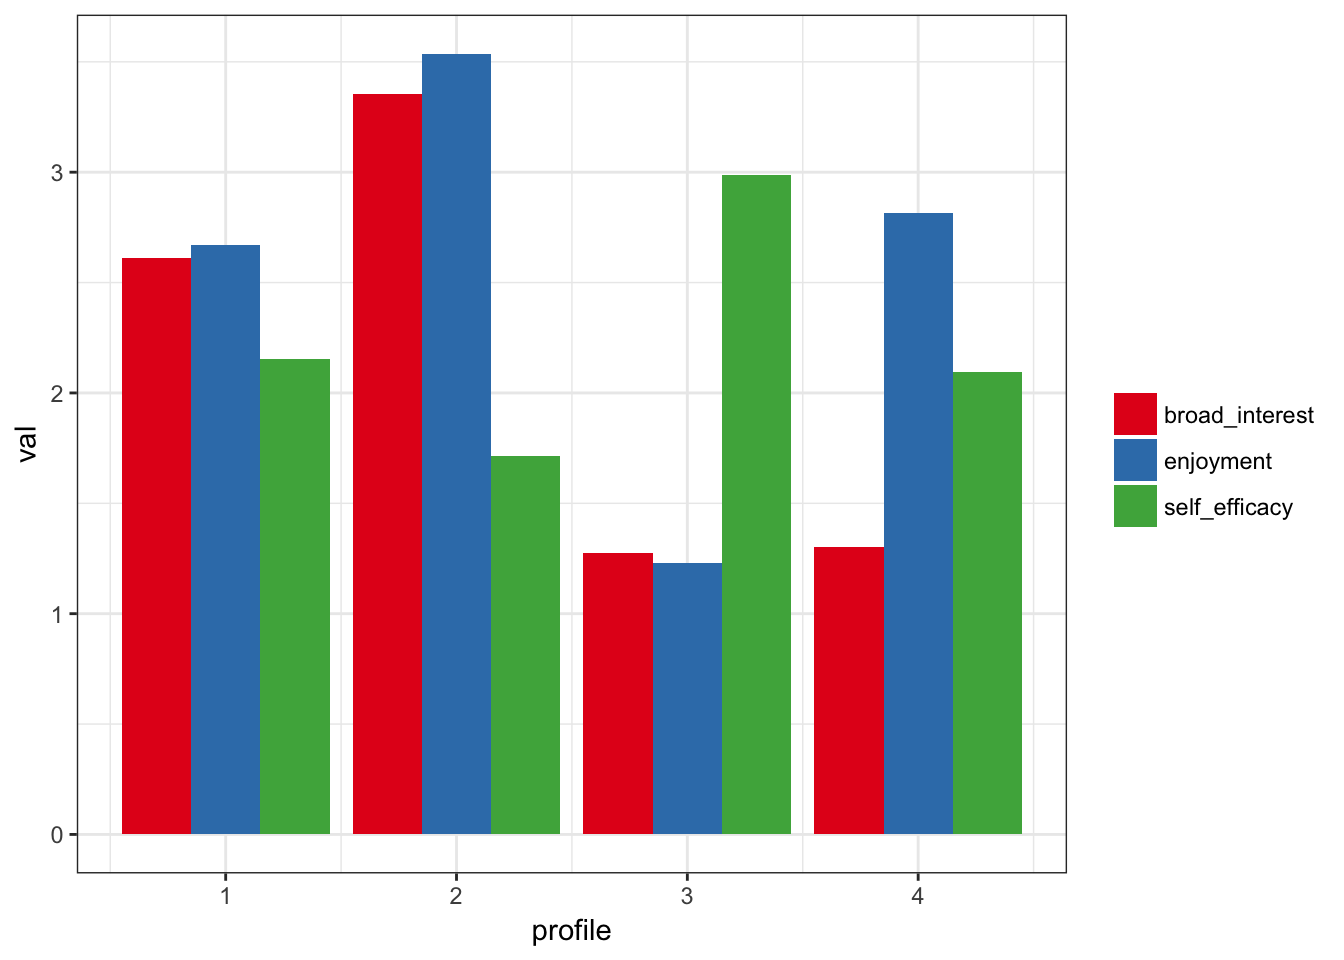
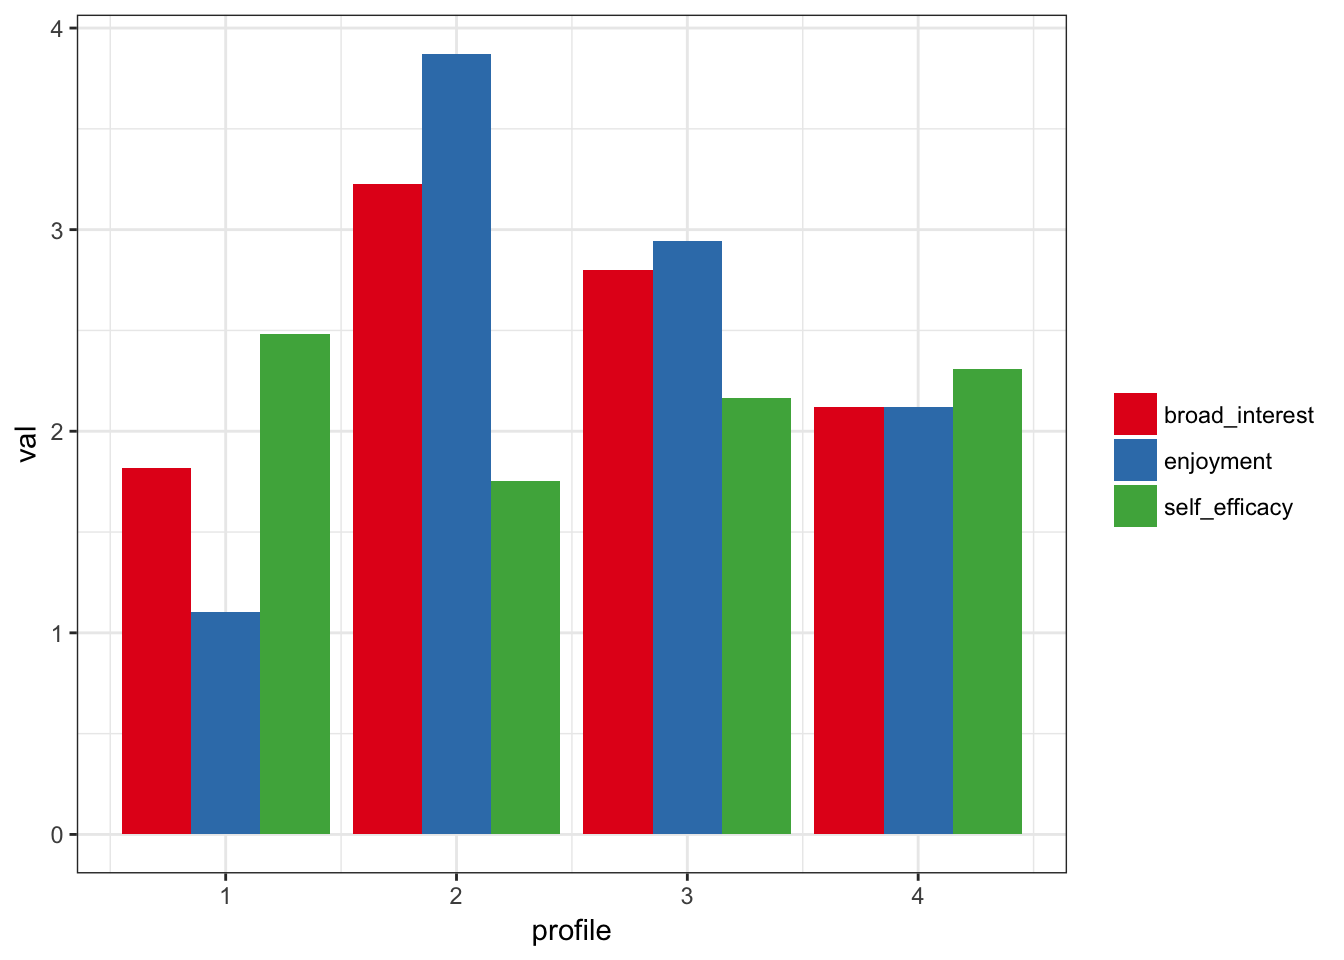
update in response to R CMD check

diff --git a/docs/articles/Introduction_to_tidyLPA.html b/docs/articles/Introduction_to_tidyLPA.html
@@ -82,24 +82,24 @@ d &lt;-<span class="st"> </span>pisaUSA15
 d &lt;-<span class="st"> </span><span class="kw">sample_n</span>(pisaUSA15, <span class="dv">500</span>)
 <span class="kw"><a href="../reference/create_profiles_lpa.html">create_profiles_lpa</a></span>(d, broad_interest, enjoyment, self_efficacy, <span class="dt">n_profiles =</span> <span class="dv">4</span>, <span class="dt">model =</span> <span class="dv">2</span>)
 <span class="co">#&gt; Model with 4 profiles using the 'varying means, equal variances and covariances' model.</span>
-<span class="co">#&gt; AIC is 2842.748</span>
-<span class="co">#&gt; BIC is 2929.911</span>
-<span class="co">#&gt; ICL is 3170.918</span>
-<span class="co">#&gt; Entropy is 0.78671</span>
-<span class="co">#&gt; # A tibble: 469 x 5</span>
+<span class="co">#&gt; AIC is 2675.152</span>
+<span class="co">#&gt; BIC is 2762.538</span>
+<span class="co">#&gt; ICL is 2792.197</span>
+<span class="co">#&gt; Entropy is 0.97233</span>
+<span class="co">#&gt; # A tibble: 474 x 5</span>
 <span class="co">#&gt;    broad_interest enjoyment self_efficacy profile posterior_prob</span>
 <span class="co">#&gt;             &lt;dbl&gt;     &lt;dbl&gt;         &lt;dbl&gt;   &lt;dbl&gt;          &lt;dbl&gt;</span>
-<span class="co">#&gt;  1           3.00       3.2         2.000       1        0.52042</span>
-<span class="co">#&gt;  2           4.00       4.0         1.750       2        0.98139</span>
-<span class="co">#&gt;  3           2.00       2.2         2.625       1        0.81540</span>
-<span class="co">#&gt;  4           2.00       2.0         1.000       1        0.69438</span>
-<span class="co">#&gt;  5           1.00       1.0         1.000       3        0.88757</span>
-<span class="co">#&gt;  6           1.75       1.0         3.000       3        0.98965</span>
-<span class="co">#&gt;  7           1.00       2.2         2.000       4        0.91386</span>
-<span class="co">#&gt;  8           1.80       1.8         2.125       1        0.50814</span>
-<span class="co">#&gt;  9           3.20       3.0         2.000       1        0.53080</span>
-<span class="co">#&gt; 10           3.00       3.0         2.000       1        0.63059</span>
-<span class="co">#&gt; # ... with 459 more rows</span></code></pre></div>
+<span class="co">#&gt;  1            2.2       2.0         2.000       4        0.99994</span>
+<span class="co">#&gt;  2            1.2       2.2         3.000       4        0.99771</span>
+<span class="co">#&gt;  3            2.0       2.8         3.375       3        0.99921</span>
+<span class="co">#&gt;  4            3.6       3.8         1.500       2        0.99971</span>
+<span class="co">#&gt;  5            3.0       2.8         3.125       3        0.99957</span>
+<span class="co">#&gt;  6            1.0       2.2         2.000       4        0.99925</span>
+<span class="co">#&gt;  7            1.0       1.8         2.000       4        0.99758</span>
+<span class="co">#&gt;  8            2.2       1.8         3.000       4        0.99865</span>
+<span class="co">#&gt;  9            3.0       3.0         2.625       3        0.99994</span>
+<span class="co">#&gt; 10            3.2       3.6         1.625       2        0.97267</span>
+<span class="co">#&gt; # ... with 464 more rows</span></code></pre></div>
 <p>You can see the output is simply the same <code>tibble</code> that is input as the first function to <code>create_profiles_LPA</code>, but modified so that the classification and posterior probability of the classification are added (and incomplete cases with respect to the variables used to estimate the profiles removed).</p>
 <p>A bit more information the models. While <code>MCLUST</code> has a wide variety of models available (see <code>mclust::mclustModelNames()</code> for a full list), the three that are most commonly specified when carrying out LPA.</p>
 <ol style="list-style-type: decimal">
@@ -111,18 +111,18 @@ d &lt;-<span class="st"> </span><span class="kw">sample_n</span>(pisaUSA15, <spa
 <div class="sourceCode"><pre class="sourceCode r"><code class="sourceCode r"><span class="kw"><a href="../reference/create_profiles_lpa.html">create_profiles_lpa</a></span>(d, broad_interest, enjoyment, self_efficacy, <span class="dt">n_profiles =</span> <span class="dv">4</span>, <span class="dt">model =</span> <span class="dv">2</span>) <span class="op">%&gt;%</span><span class="st"> </span>
 <span class="st">    </span><span class="kw"><a href="../reference/plot_profiles_lpa.html">plot_profiles_lpa</a></span>()
 <span class="co">#&gt; Model with 4 profiles using the 'varying means, equal variances and covariances' model.</span>
-<span class="co">#&gt; AIC is 2842.748</span>
-<span class="co">#&gt; BIC is 2929.911</span>
-<span class="co">#&gt; ICL is 3170.918</span>
-<span class="co">#&gt; Entropy is 0.78671</span></code></pre></div>
+<span class="co">#&gt; AIC is 2675.152</span>
+<span class="co">#&gt; BIC is 2762.538</span>
+<span class="co">#&gt; ICL is 2792.197</span>
+<span class="co">#&gt; Entropy is 0.97233</span></code></pre></div>
 <p><img src="Introduction_to_tidyLPA_files/figure-html/unnamed-chunk-5-1.png" width="672"></p>
 <p>Below is identical to the two lines of code above, except that instead of using the pipe, we save the output the object <code>m3</code>, and then call the <code><a href="../reference/plot_profiles_lpa.html">plot_profiles_lpa()</a></code> function on the output that it points to.</p>
 <div class="sourceCode"><pre class="sourceCode r"><code class="sourceCode r">m3 &lt;-<span class="st"> </span><span class="kw"><a href="../reference/create_profiles_lpa.html">create_profiles_lpa</a></span>(d, broad_interest, enjoyment, self_efficacy, <span class="dt">n_profiles =</span> <span class="dv">4</span>, <span class="dt">model =</span> <span class="dv">2</span>)
 <span class="co">#&gt; Model with 4 profiles using the 'varying means, equal variances and covariances' model.</span>
-<span class="co">#&gt; AIC is 2842.748</span>
-<span class="co">#&gt; BIC is 2929.911</span>
-<span class="co">#&gt; ICL is 3170.918</span>
-<span class="co">#&gt; Entropy is 0.78671</span>
+<span class="co">#&gt; AIC is 2675.152</span>
+<span class="co">#&gt; BIC is 2762.538</span>
+<span class="co">#&gt; ICL is 2792.197</span>
+<span class="co">#&gt; Entropy is 0.97233</span>
 <span class="kw"><a href="../reference/plot_profiles_lpa.html">plot_profiles_lpa</a></span>(m3, <span class="dt">to_center =</span> <span class="ot">TRUE</span>)</code></pre></div>
 <p><img src="Introduction_to_tidyLPA_files/figure-html/unnamed-chunk-6-1.png" width="672"></p>
 </div>
@@ -132,36 +132,36 @@ d &lt;-<span class="st"> </span><span class="kw">sample_n</span>(pisaUSA15, <spa
 <p>In addition to being used as part of a “tidy” approach, there is also an option to use it as part of a more conventional, object-oriented approach. In this example, instead of outputting a <code>tibble</code>, we will output an object of class <code>Mclust</code>.</p>
 <div class="sourceCode"><pre class="sourceCode r"><code class="sourceCode r">m3_mclust &lt;-<span class="st"> </span><span class="kw"><a href="../reference/create_profiles_lpa.html">create_profiles_lpa</a></span>(d, broad_interest, enjoyment, self_efficacy, <span class="dt">n_profiles =</span> <span class="dv">4</span>, <span class="dt">model =</span> <span class="dv">2</span>, <span class="dt">to_return =</span> <span class="st">"mclust"</span>)
 <span class="co">#&gt; Model with 4 profiles using the 'varying means, equal variances and covariances' model.</span>
-<span class="co">#&gt; AIC is 2842.748</span>
-<span class="co">#&gt; BIC is 2929.911</span>
-<span class="co">#&gt; ICL is 3170.918</span>
-<span class="co">#&gt; Entropy is 0.78671</span></code></pre></div>
+<span class="co">#&gt; AIC is 2675.152</span>
+<span class="co">#&gt; BIC is 2762.538</span>
+<span class="co">#&gt; ICL is 2792.197</span>
+<span class="co">#&gt; Entropy is 0.97233</span></code></pre></div>
 <p>Any of the functions from the <a href="http://www.stat.washington.edu/mclust/">MCLUST package</a> that work with this type of output will work on this output; the only difference is that the model is specified in this package (with the <code><a href="../reference/create_profiles_lpa.html">create_profiles_lpa()</a></code> function) instead of the <code>Mclust()</code> function from the <code>MCLUST package</code>.</p>
 <p>In addition, a number of helper functions are available for extracting various model information.</p>
 <div class="sourceCode"><pre class="sourceCode r"><code class="sourceCode r"><span class="kw"><a href="../reference/extract_mclust_summary.html">extract_mclust_summary</a></span>(m3_mclust)
 <span class="co">#&gt;          LL      BIC Entropy</span>
-<span class="co">#&gt; 1 -1400.374 2929.911   0.787</span>
+<span class="co">#&gt; 1 -1316.576 2762.538   0.972</span>
 <span class="kw"><a href="../reference/extract_variance.html">extract_variance</a></span>(m3_mclust)
 <span class="co">#&gt; [1] 4</span>
 <span class="co">#&gt; # A tibble: 3 x 4</span>
 <span class="co">#&gt;   param_name       var_name   class   est</span>
 <span class="co">#&gt;        &lt;chr&gt;          &lt;chr&gt;   &lt;chr&gt; &lt;dbl&gt;</span>
-<span class="co">#&gt; 1  Variances broad_interest class_4 0.239</span>
-<span class="co">#&gt; 2  Variances      enjoyment class_4 0.255</span>
-<span class="co">#&gt; 3  Variances  self_efficacy class_4 0.393</span>
+<span class="co">#&gt; 1  Variances broad_interest class_4 0.393</span>
+<span class="co">#&gt; 2  Variances      enjoyment class_4 0.040</span>
+<span class="co">#&gt; 3  Variances  self_efficacy class_4 0.405</span>
 <span class="kw"><a href="../reference/extract_covariance.html">extract_covariance</a></span>(m3_mclust)
 <span class="co">#&gt; # A tibble: 9 x 3</span>
-<span class="co">#&gt;      param_name   var_name          est</span>
-<span class="co">#&gt;           &lt;chr&gt;      &lt;chr&gt;        &lt;dbl&gt;</span>
-<span class="co">#&gt; 1 BROAD_IN_WITH BROAD_INTE  0.239388578</span>
-<span class="co">#&gt; 2 ENJOYMEN_WITH BROAD_INTE  0.026982062</span>
-<span class="co">#&gt; 3 SELF_EFF_WITH BROAD_INTE -0.045198350</span>
-<span class="co">#&gt; 4 BROAD_IN_WITH  ENJOYMENT  0.026982062</span>
-<span class="co">#&gt; 5 ENJOYMEN_WITH  ENJOYMENT  0.255145307</span>
-<span class="co">#&gt; 6 SELF_EFF_WITH  ENJOYMENT -0.008185633</span>
-<span class="co">#&gt; 7 BROAD_IN_WITH SELF_EFFIC -0.045198350</span>
-<span class="co">#&gt; 8 ENJOYMEN_WITH SELF_EFFIC -0.008185633</span>
-<span class="co">#&gt; 9 SELF_EFF_WITH SELF_EFFIC  0.393158716</span></code></pre></div>
+<span class="co">#&gt;      param_name   var_name         est</span>
+<span class="co">#&gt;           &lt;chr&gt;      &lt;chr&gt;       &lt;dbl&gt;</span>
+<span class="co">#&gt; 1 BROAD_IN_WITH BROAD_INTE  0.39303498</span>
+<span class="co">#&gt; 2 ENJOYMEN_WITH BROAD_INTE  0.01892561</span>
+<span class="co">#&gt; 3 SELF_EFF_WITH BROAD_INTE -0.03504551</span>
+<span class="co">#&gt; 4 BROAD_IN_WITH  ENJOYMENT  0.01892561</span>
+<span class="co">#&gt; 5 ENJOYMEN_WITH  ENJOYMENT  0.04028440</span>
+<span class="co">#&gt; 6 SELF_EFF_WITH  ENJOYMENT -0.02394997</span>
+<span class="co">#&gt; 7 BROAD_IN_WITH SELF_EFFIC -0.03504551</span>
+<span class="co">#&gt; 8 ENJOYMEN_WITH SELF_EFFIC -0.02394997</span>
+<span class="co">#&gt; 9 SELF_EFF_WITH SELF_EFFIC  0.40517703</span></code></pre></div>
 </div>
 <div id="comparing-many-models-using-information-criteria" class="section level3">
 <h3 class="hasAnchor">
@@ -203,7 +203,7 @@ d &lt;-<span class="st"> </span><span class="kw">sample_n</span>(pisaUSA15, <spa
 
 
       <footer><div class="copyright">
-  <p>Developed by Joshua M Rosenberg.</p>
+  <p>Developed by Joshua M Rosenberg, Jennifer A Schmidt, Patrick N Beymer.</p>
 </div>
 
 <div class="pkgdown">

diff --git a/docs/index.html b/docs/index.html
@@ -5,7 +5,7 @@
 <meta charset="utf-8">
 <meta http-equiv="X-UA-Compatible" content="IE=edge">
 <meta name="viewport" content="width=device-width, initial-scale=1.0">
-<title>Provide n interface to MCLUST to perform Latent Profile Analysis in R • tidyLPA</title>
+<title>Provide an Interface to MCLUST to Perform Latent Profile Analysis • tidyLPA</title>
 <!-- jquery --><script src="https://code.jquery.com/jquery-3.1.0.min.js" integrity="sha384-nrOSfDHtoPMzJHjVTdCopGqIqeYETSXhZDFyniQ8ZHcVy08QesyHcnOUpMpqnmWq" crossorigin="anonymous"></script><!-- Bootstrap --><link href="https://maxcdn.bootstrapcdn.com/bootstrap/3.3.7/css/bootstrap.min.css" rel="stylesheet" integrity="sha384-BVYiiSIFeK1dGmJRAkycuHAHRg32OmUcww7on3RYdg4Va+PmSTsz/K68vbdEjh4u" crossorigin="anonymous">
 <script src="https://maxcdn.bootstrapcdn.com/bootstrap/3.3.7/js/bootstrap.min.js" integrity="sha384-Tc5IQib027qvyjSMfHjOMaLkfuWVxZxUPnCJA7l2mCWNIpG9mGCD8wGNIcPD7Txa" crossorigin="anonymous"></script><!-- Font Awesome icons --><link href="https://maxcdn.bootstrapcdn.com/font-awesome/4.6.3/css/font-awesome.min.css" rel="stylesheet" integrity="sha384-T8Gy5hrqNKT+hzMclPo118YTQO6cYprQmhrYwIiQ/3axmI1hQomh7Ud2hPOy8SP1" crossorigin="anonymous">
 <!-- pkgdown --><link href="pkgdown.css" rel="stylesheet">
@@ -77,25 +77,25 @@ d &lt;-<span class="st"> </span>pisaUSA15
 d &lt;-<span class="st"> </span><span class="kw">sample_frac</span>(d, .<span class="dv">5</span>)
 m3 &lt;-<span class="st"> </span><span class="kw"><a href="reference/create_profiles_lpa.html">create_profiles_lpa</a></span>(d, broad_interest, enjoyment, self_efficacy, <span class="dt">n_profiles =</span> <span class="dv">3</span>, <span class="dt">model =</span> <span class="dv">2</span>)
 <span class="co">#&gt; Model with 3 profiles using the 'varying means, equal variances and covariances' model.</span>
-<span class="co">#&gt; AIC is 15942.164</span>
-<span class="co">#&gt; BIC is 16042.43</span>
-<span class="co">#&gt; ICL is 16403.878</span>
-<span class="co">#&gt; Entropy is 0.94135</span>
+<span class="co">#&gt; AIC is 16125.341</span>
+<span class="co">#&gt; BIC is 16225.519</span>
+<span class="co">#&gt; ICL is 19589.186</span>
+<span class="co">#&gt; Entropy is 0.54397</span>
 m3
-<span class="co">#&gt; # A tibble: 2,692 x 5</span>
+<span class="co">#&gt; # A tibble: 2,678 x 5</span>
 <span class="co">#&gt;    broad_interest enjoyment self_efficacy profile posterior_prob</span>
 <span class="co">#&gt;             &lt;dbl&gt;     &lt;dbl&gt;         &lt;dbl&gt;   &lt;dbl&gt;          &lt;dbl&gt;</span>
-<span class="co">#&gt;  1            1.4       1.0         3.000       1        0.99970</span>
-<span class="co">#&gt;  2            4.6       4.0         1.000       2        0.94924</span>
-<span class="co">#&gt;  3            2.6       3.0         2.000       3        0.96331</span>
-<span class="co">#&gt;  4            3.0       1.2         1.250       1        0.99977</span>
-<span class="co">#&gt;  5            3.0       2.8         2.125       3        0.99499</span>
-<span class="co">#&gt;  6            2.8       2.0         2.000       3        0.73546</span>
-<span class="co">#&gt;  7            2.0       2.4         2.625       3        0.99821</span>
-<span class="co">#&gt;  8            2.6       3.0         2.500       3        0.97117</span>
-<span class="co">#&gt;  9            2.6       3.0         1.625       3        0.95610</span>
-<span class="co">#&gt; 10            2.4       2.4         2.125       3        0.99710</span>
-<span class="co">#&gt; # ... with 2,682 more rows</span>
+<span class="co">#&gt;  1            1.6       2.0         3.000       2        0.46898</span>
+<span class="co">#&gt;  2            3.4       3.8         1.000       3        0.53517</span>
+<span class="co">#&gt;  3            2.6       2.2         3.125       2        0.51038</span>
+<span class="co">#&gt;  4            3.0       2.4         2.375       2        0.50348</span>
+<span class="co">#&gt;  5            4.4       3.0         1.500       3        0.53357</span>
+<span class="co">#&gt;  6            3.0       3.0         1.000       2        0.50654</span>
+<span class="co">#&gt;  7            3.4       3.2         1.375       3        0.51145</span>
+<span class="co">#&gt;  8            2.6       1.0         1.875       1        0.98630</span>
+<span class="co">#&gt;  9            2.4       3.0         2.500       2        0.51382</span>
+<span class="co">#&gt; 10            3.0       2.6         3.000       2        0.50538</span>
+<span class="co">#&gt; # ... with 2,668 more rows</span>
 <span class="kw"><a href="reference/plot_profiles_lpa.html">plot_profiles_lpa</a></span>(m3, <span class="dt">to_center =</span> <span class="ot">TRUE</span>)</code></pre></div>
 <p><img src="README-unnamed-chunk-3-1.png" width="672"></p>
 </div>
@@ -109,6 +109,8 @@ m3
 <h2>Developers</h2>
 <ul class="list-unstyled">
 <li>Joshua M Rosenberg <br><small class="roles"> Author, maintainer </small> </li>
+<li>Jennifer A Schmidt <br><small class="roles"> Author </small> </li>
+<li>Patrick N Beymer <br><small class="roles"> Author </small> </li>
 </ul>
 </div>
 
@@ -116,7 +118,7 @@ m3
 
 
       <footer><div class="copyright">
-  <p>Developed by Joshua M Rosenberg.</p>
+  <p>Developed by Joshua M Rosenberg, Jennifer A Schmidt, Patrick N Beymer.</p>
 </div>
 
 <div class="pkgdown">

diff --git a/docs/reference/compare_models_lpa.html b/docs/reference/compare_models_lpa.html
@@ -107,7 +107,7 @@
     </tr>
     <tr>
       <th>return_table</th>
-      <td><p>logical (TRUE or FALSE) for whether to return a table of the output intsead of a plot; defaults to FALSE</p></td>
+      <td><p>logical (TRUE or FALSE) for whether to return a table of the output instead of a plot; defaults to FALSE</p></td>
     </tr>
     </table>
     
@@ -142,7 +142,7 @@
 
       <footer>
       <div class="copyright">
-  <p>Developed by Joshua M Rosenberg.</p>
+  <p>Developed by Joshua M Rosenberg, Jennifer A Schmidt, Patrick N Beymer.</p>
 </div>
 
 <div class="pkgdown">

diff --git a/docs/authors.html b/docs/authors.html
@@ -80,6 +80,14 @@
         <p><strong>Joshua M Rosenberg</strong>. Author, maintainer.
         </p>
       </li>
+      <li>
+        <p><strong>Jennifer A Schmidt</strong>. Author.
+        </p>
+      </li>
+      <li>
+        <p><strong>Patrick N Beymer</strong>. Author.
+        </p>
+      </li>
     </ul>
 
   </div>
@@ -89,7 +97,7 @@
 
       <footer>
       <div class="copyright">
-  <p>Developed by Joshua M Rosenberg.</p>
+  <p>Developed by Joshua M Rosenberg, Jennifer A Schmidt, Patrick N Beymer.</p>
 </div>
 
 <div class="pkgdown">

diff --git a/docs/LICENSE.html b/docs/LICENSE.html
@@ -86,7 +86,7 @@ COPYRIGHT HOLDER: Your name goes here
 
       <footer>
       <div class="copyright">
-  <p>Developed by Joshua M Rosenberg.</p>
+  <p>Developed by Joshua M Rosenberg, Jennifer A Schmidt, Patrick N Beymer.</p>
 </div>
 
 <div class="pkgdown">

diff --git a/docs/reference/bootstrap_lrt.html b/docs/reference/bootstrap_lrt.html
@@ -130,7 +130,7 @@
 
       <footer>
       <div class="copyright">
-  <p>Developed by Joshua M Rosenberg.</p>
+  <p>Developed by Joshua M Rosenberg, Jennifer A Schmidt, Patrick N Beymer.</p>
 </div>
 
 <div class="pkgdown">

diff --git a/docs/reference/create_profiles_lpa.html b/docs/reference/create_profiles_lpa.html
@@ -145,7 +145,7 @@
 
       <footer>
       <div class="copyright">
-  <p>Developed by Joshua M Rosenberg.</p>
+  <p>Developed by Joshua M Rosenberg, Jennifer A Schmidt, Patrick N Beymer.</p>
 </div>
 
 <div class="pkgdown">

diff --git a/docs/reference/extract_covariance.html b/docs/reference/extract_covariance.html
@@ -109,7 +109,7 @@
 
       <footer>
       <div class="copyright">
-  <p>Developed by Joshua M Rosenberg.</p>
+  <p>Developed by Joshua M Rosenberg, Jennifer A Schmidt, Patrick N Beymer.</p>
 </div>
 
 <div class="pkgdown">

diff --git a/docs/reference/extract_mclust_summary.html b/docs/reference/extract_mclust_summary.html
@@ -109,7 +109,7 @@
 
       <footer>
       <div class="copyright">
-  <p>Developed by Joshua M Rosenberg.</p>
+  <p>Developed by Joshua M Rosenberg, Jennifer A Schmidt, Patrick N Beymer.</p>
 </div>
 
 <div class="pkgdown">

diff --git a/docs/reference/extract_variance.html b/docs/reference/extract_variance.html
@@ -109,7 +109,7 @@
 
       <footer>
       <div class="copyright">
-  <p>Developed by Joshua M Rosenberg.</p>
+  <p>Developed by Joshua M Rosenberg, Jennifer A Schmidt, Patrick N Beymer.</p>
 </div>
 
 <div class="pkgdown">

diff --git a/docs/reference/index.html b/docs/reference/index.html
@@ -157,7 +157,7 @@
 
       <footer>
       <div class="copyright">
-  <p>Developed by Joshua M Rosenberg.</p>
+  <p>Developed by Joshua M Rosenberg, Jennifer A Schmidt, Patrick N Beymer.</p>
 </div>
 
 <div class="pkgdown">

diff --git a/docs/reference/pisaUSA15.html b/docs/reference/pisaUSA15.html
@@ -110,7 +110,7 @@
 
       <footer>
       <div class="copyright">
-  <p>Developed by Joshua M Rosenberg.</p>
+  <p>Developed by Joshua M Rosenberg, Jennifer A Schmidt, Patrick N Beymer.</p>
 </div>
 
 <div class="pkgdown">
